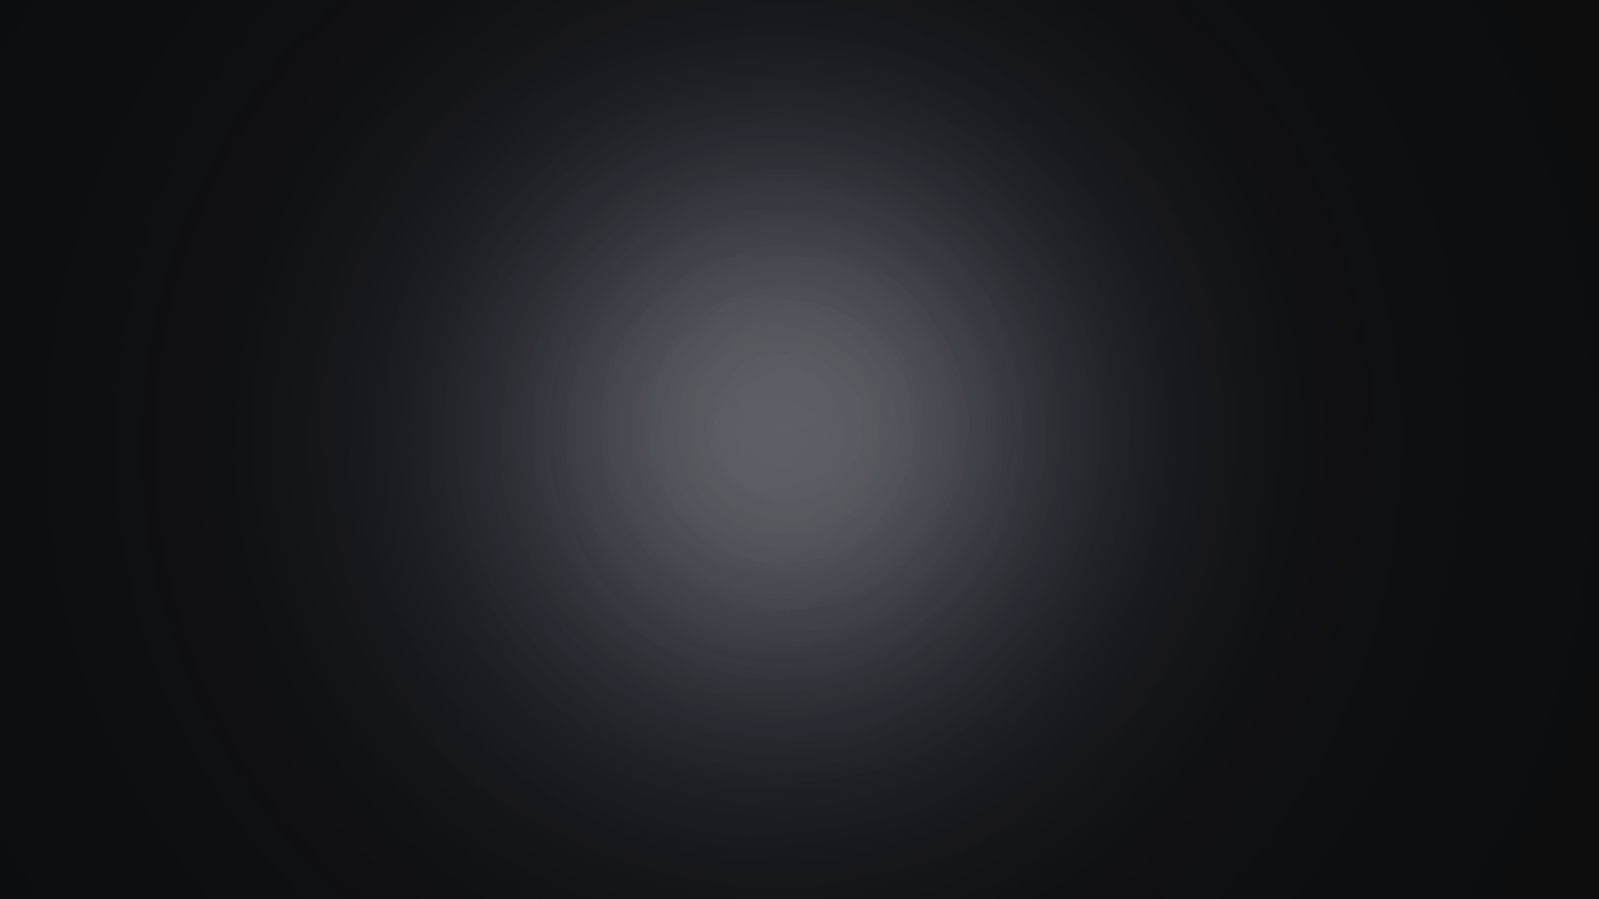
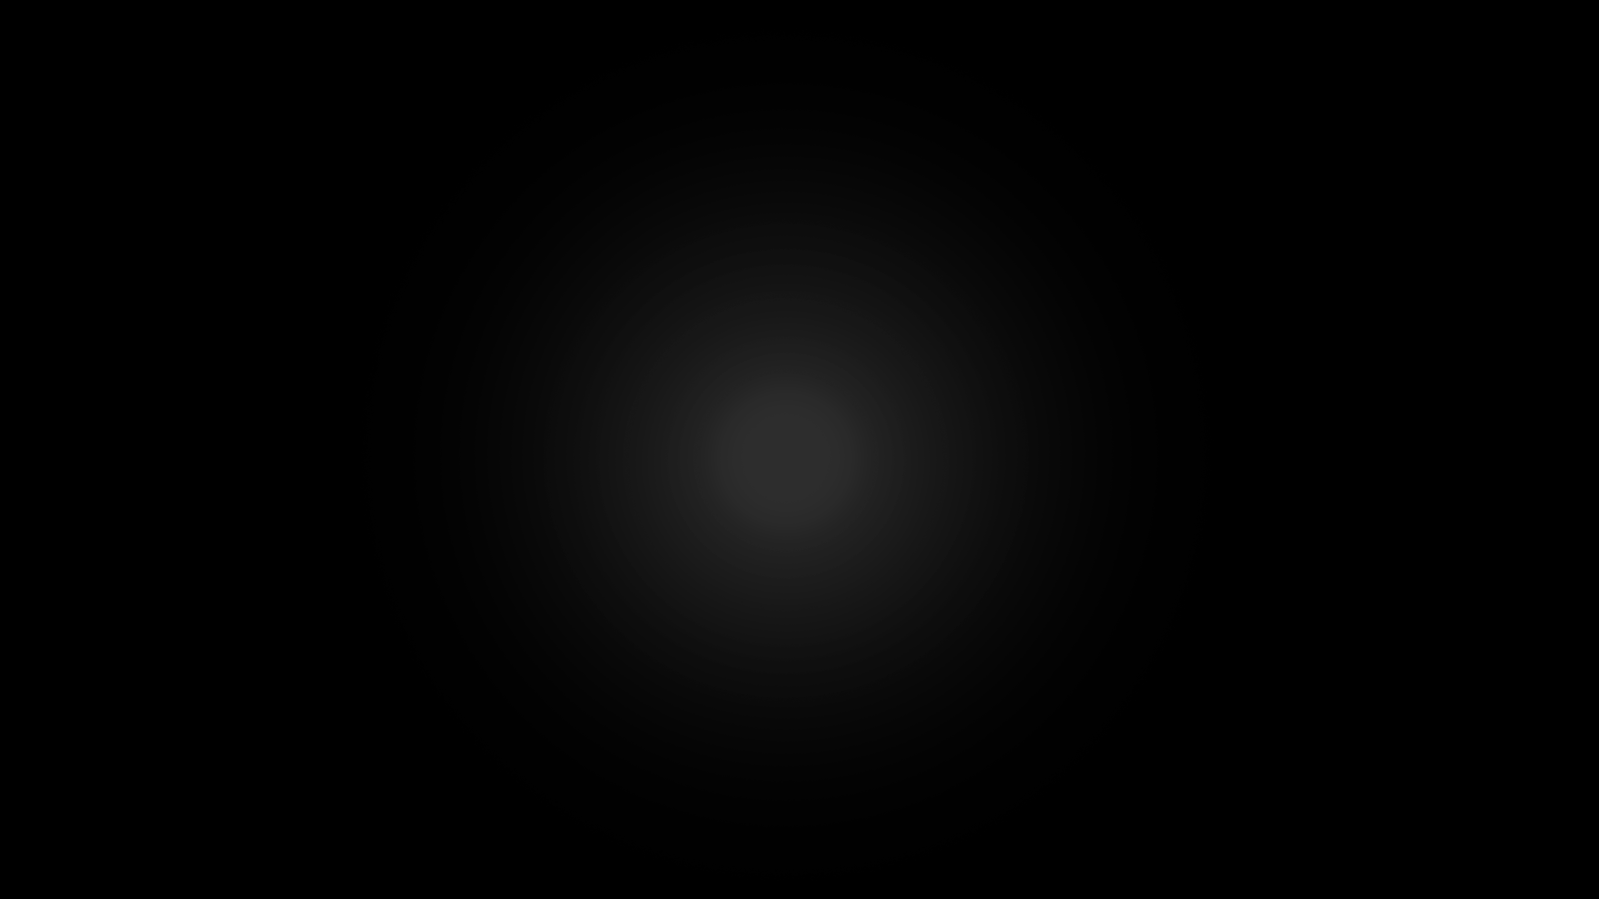
Feedback visual de la vida (el nevulosa >:D)

diff --git a/ProyectoII/Practica1/juegoPG.cpp b/ProyectoII/Practica1/juegoPG.cpp
@@ -25,9 +25,9 @@ juegoPG::juegoPG()
 	//CAMBIAR CADA VEZ QUE SE METE UNA IMAGEN NUEVA
 	vecTexturas.resize(17);
 	initMedia();	
-
 	//La vida de los pjs (al ser compartida va en el juego)
 	vida = 300;
+	nieblaRect = { 600,338,400,225 };
 
 	estados.push(new MenuPG(this,0));
 
@@ -229,3 +229,12 @@ void juegoPG::onExit(){
 	exit = true;
 }
 
+void juegoPG::cambiaVida(int cambio) { 
+	if (vida + cambio <= 300 && vida + cambio >= 0) {
+		vida += cambio;
+		nieblaRect.w = 400 + 4 * (300 - vida);//Tamaño de text min + 4* vida total - vida actual
+		nieblaRect.h = 225 + 2.25 * (300 - vida);
+		nieblaRect.x = 1600/2 - nieblaRect.w / 2;
+		nieblaRect.y = 900/2 - nieblaRect.h / 2;
+	}
+}

diff --git a/ProyectoII/Practica1/juegoPG.h b/ProyectoII/Practica1/juegoPG.h
@@ -41,7 +41,10 @@ public:
 	bool hasExit(){ return exit; }
 	EstadoJuego* getEstadoActual() { return estados.top(); }
 	int getVida(){ return vida; }
-	void cambiaVida(int cambio){ vida += cambio; }
+
+	//Este metodo cambia la vida y el rect de la niebla oscura
+	void cambiaVida(int cambio);
+	SDL_Rect getNieblaRect() { return nieblaRect; }
 	int getHeight(){ return SCREEN_HEIGHT; }
 	int getWidht(){ return SCREEN_WIDTH; }
 
@@ -82,5 +85,6 @@ private:
 
 	//Cosas de los personajes
 	int vida;
+	SDL_Rect nieblaRect;
 };
 
